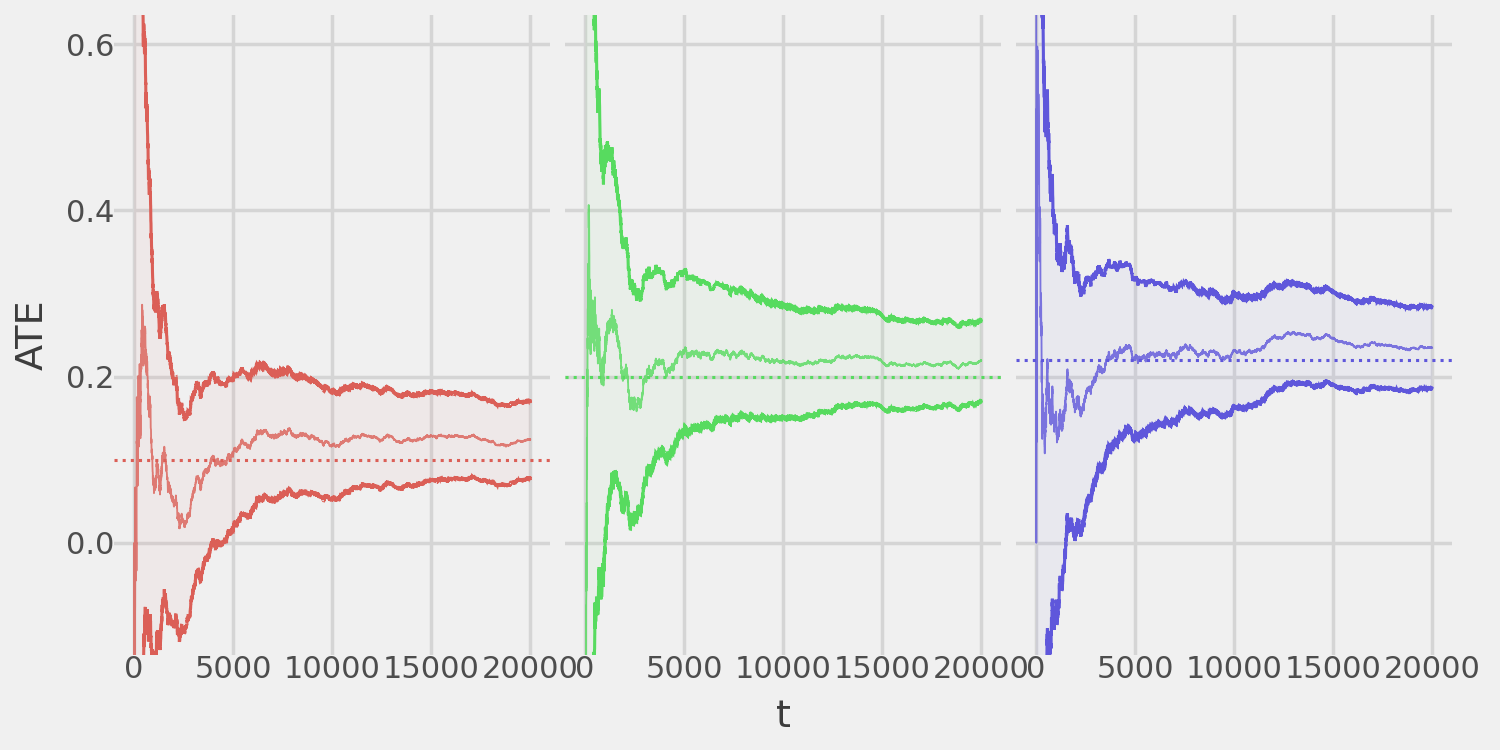
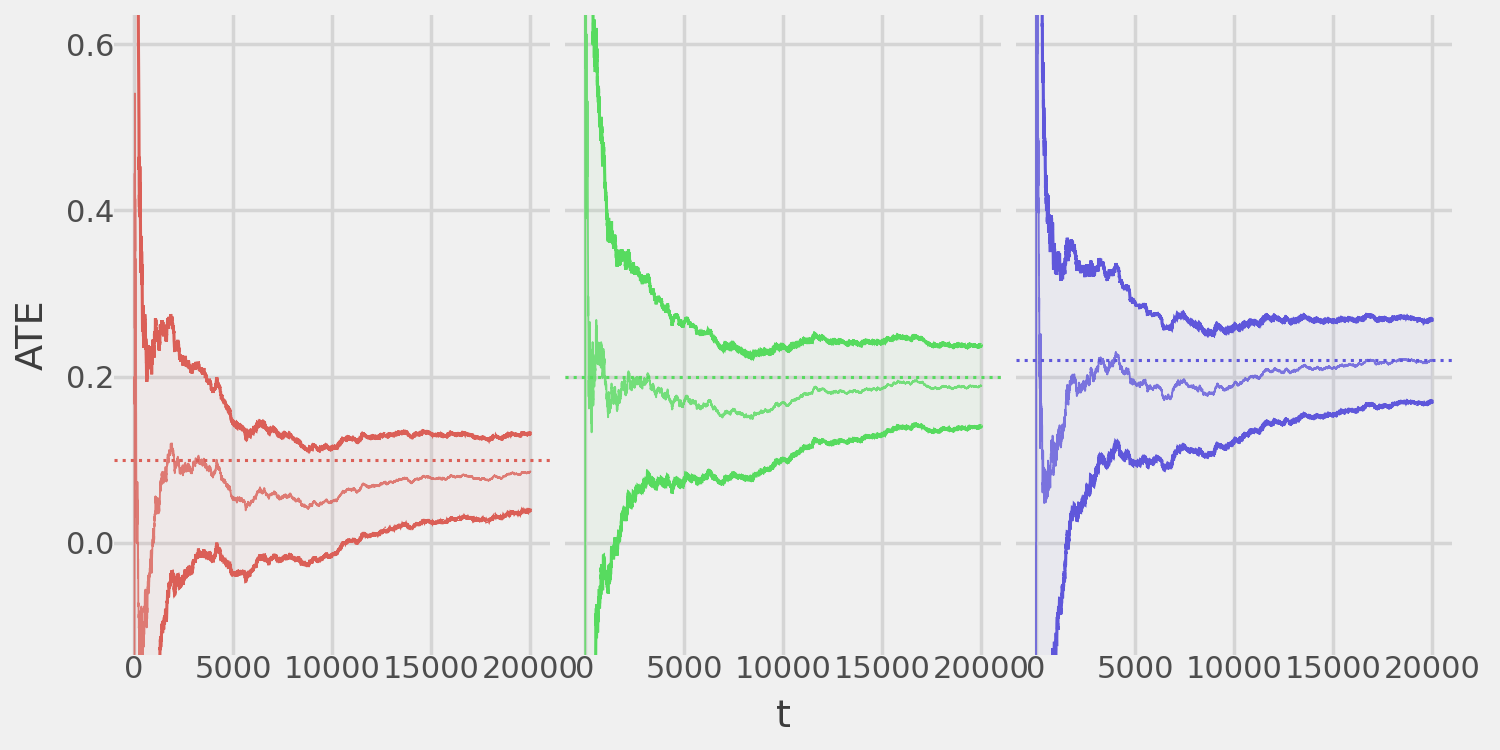
Update README :book:

diff --git a/README.md b/README.md
@@ -105,7 +105,6 @@ class TSBernoulli(Bandit):
     A class for implementing Thompson Sampling on Bernoulli data
     """
     def __init__(self, k: int, control: int, reward: Callable[[int], float]):
-        self._active_arms = [x for x in range(k)]
         self._control = control
         self._k = k
         self._means = {x: 0. for x in range(k)}
@@ -121,19 +120,18 @@ class TSBernoulli(Bandit):
         return self._k
     
     def probabilities(self) -> Dict[int, float]:
-        assert self.k() == len(self._active_arms), "Mismatch in `len(self._active_arms)` and `self.k()`"
         samples = np.column_stack([
             np.random.beta(
                 a=self._params[idx]["alpha"],
                 b=self._params[idx]["beta"],
                 size=1000
             )
-            for idx in self._active_arms
+            for idx in range(self.k())
         ])
         max_indices = np.argmax(samples, axis=1)
         probs = {
             idx: np.sum(max_indices == i) / 1000
-            for i, idx in enumerate(self._active_arms)
+            for i, idx in enumerate(range(self.k()))
         }
         return probs
     
@@ -193,9 +191,9 @@ experiment.summary()
 ```
 
     Treatment effect estimates:
-    - Arm 1: 0.055 (-0.09394, 0.20355)
-    - Arm 2: 0.157 (0.03118, 0.28264)
-    - Arm 3: 0.197 (0.09508, 0.29887)
+    - Arm 1: 0.099 (-0.05067, 0.24856)
+    - Arm 2: 0.151 (0.02868, 0.27306)
+    - Arm 3: 0.217 (0.11685, 0.31726)
 
 We can also extract this summary into a pandas DataFrame:
 
@@ -205,9 +203,9 @@ experiment.estimates()
 
 |     | arm | ate      | lb        | ub       |
 |-----|-----|----------|-----------|----------|
-| 0   | 1   | 0.054806 | -0.093939 | 0.203551 |
-| 1   | 2   | 0.156910 | 0.031179  | 0.282641 |
-| 2   | 3   | 0.196978 | 0.095082  | 0.298873 |
+| 0   | 1   | 0.098949 | -0.050667 | 0.248565 |
+| 1   | 2   | 0.150873 | 0.028684  | 0.273063 |
+| 2   | 3   | 0.217053 | 0.116850  | 0.317256 |
 
 <p>3 rows × 4 columns</p>
 
